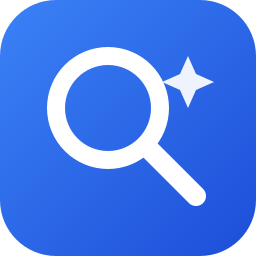
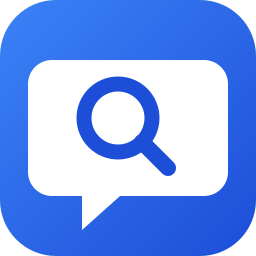
Redesign the mark to match the record's own name: Ask + SEO
Replaces the generic magnifying-glass-and-spark icon with a chat bubble
(Ask) holding a magnifying glass (SEO) — legible down to 32px, in the same
brand blue as the rest of the site. Used for the favicon, the hero's own
mark (home-cover.tsx imports the same file), and the OG image's icon.

Claude-Session: https://claude.ai/code/session_01Dqkn7xmh3xFGBDc63rWmXp

diff --git a/system/site/app/opengraph-image.tsx b/system/site/app/opengraph-image.tsx
@@ -44,14 +44,18 @@ export default function OpengraphImage(): ImageResponse {
             }}
           >
             <svg width="52" height="52" viewBox="0 0 256 256" fill="none">
-              <circle cx="108" cy="108" r="52" stroke="#fff" strokeWidth="18" />
+              <path
+                d="M52 60 h152 a24 24 0 0 1 24 24 v88 a24 24 0 0 1 -24 24 H120 l-38 34 v-34 H52 a24 24 0 0 1 -24 -24 V84 a24 24 0 0 1 24 -24 Z"
+                fill="#ffffff"
+              />
+              <circle cx="118" cy="118" r="34" stroke="#1d4ed8" strokeWidth="15" />
               <line
-                x1="147"
-                y1="147"
-                x2="196"
-                y2="196"
-                stroke="#fff"
-                strokeWidth="20"
+                x1="142"
+                y1="142"
+                x2="168"
+                y2="168"
+                stroke="#1d4ed8"
+                strokeWidth="16"
                 strokeLinecap="round"
               />
             </svg>
